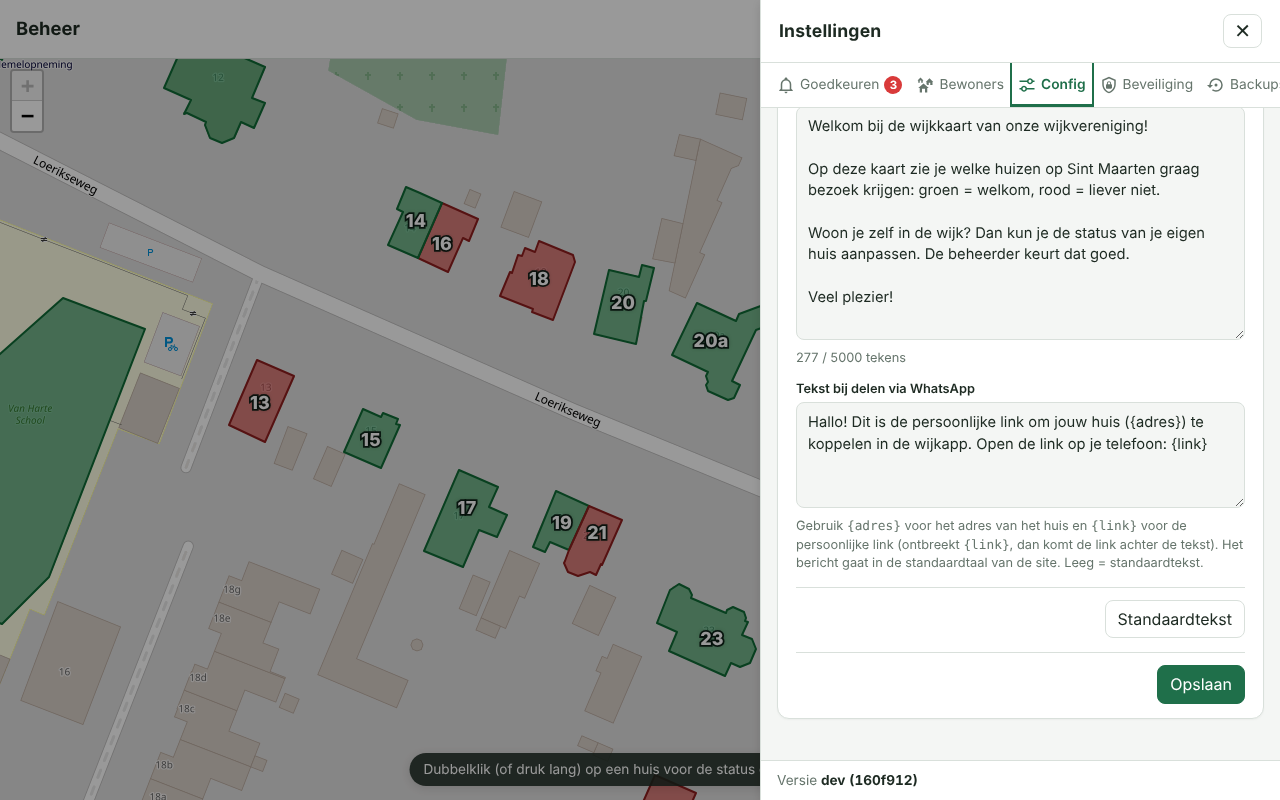
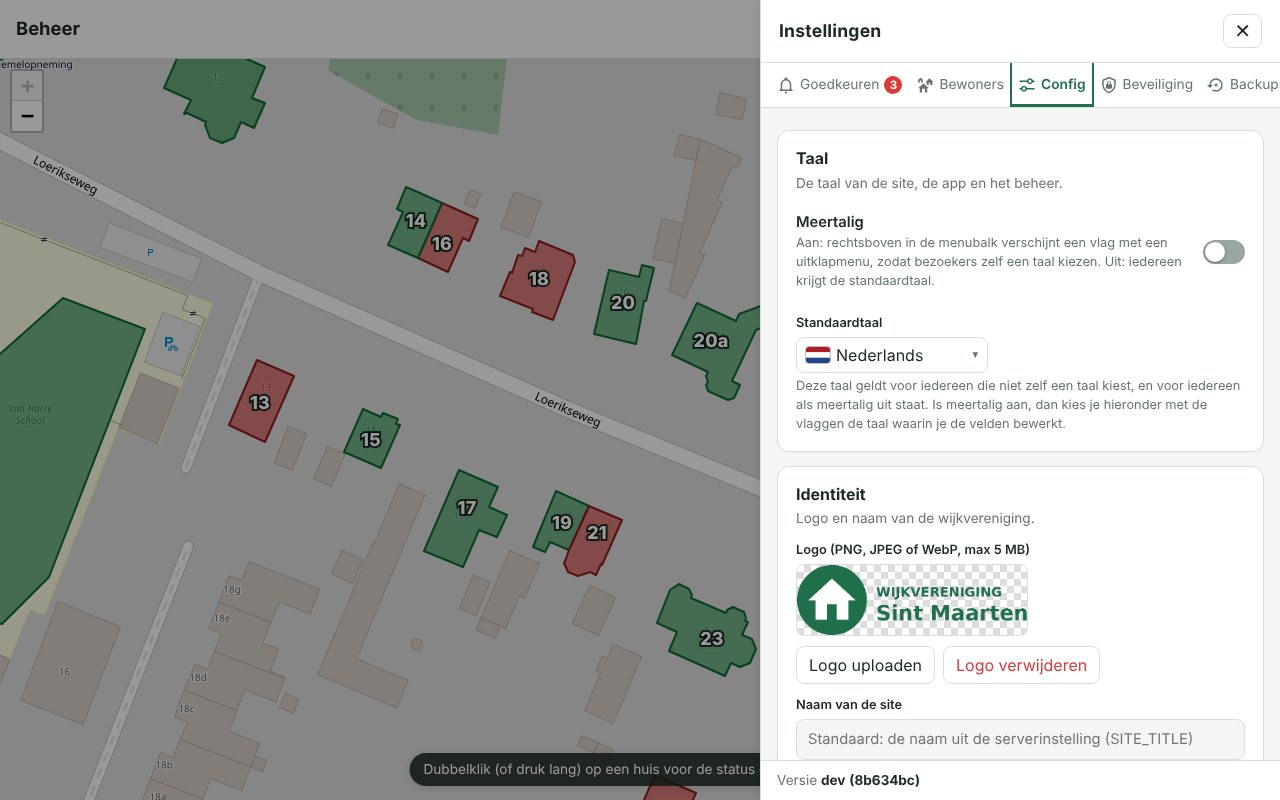
README nl/en: screenshots en beschrijving bijgewerkt (Config, talen, donker); screenshots-script (tussenstand)
Claude-Session: https://claude.ai/code/session_01RbVCVsqhcBjjeTGeb2Cmpu

diff --git a/tools/screenshots.js b/tools/screenshots.js
@@ -329,7 +329,7 @@ async function main() {
     });
     const files = await pdfPage(data, 'qr-pdf', 110);
     if (files) {
-      execFileSync('python3', ['-c', `from PIL import Image; im=Image.open(${JSON.stringify(files[0])}); w,h=im.size; im=im.crop((0,0,w,int(h*0.58))); im.save(${JSON.stringify(path.join(OUT, 'qr-pdf.png'))})`]);
+      execFileSync('python3', ['-c', `from PIL import Image; im=Image.open(${JSON.stringify(files[0])}); w,h=im.size; im=im.crop((0,0,w,int(h*0.5))); im.save(${JSON.stringify(path.join(OUT, 'qr-pdf.png'))})`]);
       console.log('  ✓ qr-pdf');
     }
   }

diff --git a/README.md b/README.md
@@ -55,7 +55,7 @@ Voorbeeld met willekeurige huizen (kaartgegevens © OpenStreetMap-bijdragers).
 
 **Publieke kaart** – met het logo van de vereniging; klik op een huis voor de notitie. Bovenaan staan de knoppen voor de uitleg, de straten en het menu *Meer* (⋯) met de PDF-knoppen.
 
-**Mobiel** – bovenaan alleen het logo, de titel en de schakelaar voor huisnummers; de acties (uitleg, straten, Meer) staan onderaan, met het statusbalkje (groen/rood) er altijd net boven.
+**Mobiel** – bovenaan alleen het logo, de titel, de schakelaars voor huisnummers en bewerken en (rechts) de taalkeuze en de donker/licht-knop; de acties (uitleg, straten, Meer) staan onderaan, met het statusbalkje (groen/rood) er altijd net boven.
 
 **Straten** – met het straat-icoon (🛣) in de menubalk zet je per straat de huizen op de kaart (en in de PDF) aan of uit. Per straat staat hoeveel huizen **groen** en **rood** zijn, en bovenaan het totaal van de zichtbare straten.
 
@@ -124,6 +124,10 @@ Wil je dat bewoners alleen hun **eigen huis** kunnen koppelen, dan zet je onder 
 - **Donker/licht** – naast de vlag staat een knop (maan/zon) waarmee elke bezoeker wisselt tussen de lichte en de donkere weergave. Standaard volgt de site de instelling van het apparaat; de keuze wordt onthouden. In de donkere weergave **keert het logo automatisch om** (zwart wordt wit) en wordt de kaart wat gedimd. De knop staat altijd in beeld, ook als meertalig uit staat.
 - **Vertalingen toevoegen** – de bron van alle teksten is Nederlands; een woordenboek per taal (`public/js/lang-en.js`, sleutel = Nederlandse tekst, waarde = vertaling; `{naam}` is een variabele) vertaalt de pagina in de browser en de pushmeldingen op de server. De tests (`npm test`) controleren dat elke vertaling dezelfde variabelen heeft.
 
+<table>
+<tr><td align="center" valign="top"><a href="docs/screenshots/instellingen-config-talen.png"><img src="docs/screenshots/instellingen-config-talen.png" width="400" alt="Config: taalbalk met vlaggen"></a><br><sub>Config: taalbalk met vlaggen</sub></td><td align="center" valign="top"><a href="docs/screenshots/publiek-engels-taalmenu.png"><img src="docs/screenshots/publiek-engels-taalmenu.png" width="400" alt="Engelse site met taalmenu"></a><br><sub>Engelse site met taalmenu</sub></td><td align="center" valign="top"><a href="docs/screenshots/mobiel-engels-donker.png"><img src="docs/screenshots/mobiel-engels-donker.png" width="150" alt="Mobiel: Engels en donker"></a><br><sub>Mobiel: Engels en donker</sub></td></tr>
+</table>
+
 ## Het beheer (`/beheer`)
 
 <table>
@@ -152,7 +156,7 @@ Het tandwiel (⚙) in de balk schuift het instellingen-menu in beeld. Het is ing
 
 <table>
 <tr><td align="center" valign="top"><a href="docs/screenshots/instellingen-goedkeuren.png"><img src="docs/screenshots/instellingen-goedkeuren.png" width="270" alt="Goedkeuren"></a><br><sub>Goedkeuren</sub></td><td align="center" valign="top"><a href="docs/screenshots/instellingen-bewoners.png"><img src="docs/screenshots/instellingen-bewoners.png" width="270" alt="Bewoners"></a><br><sub>Bewoners</sub></td><td align="center" valign="top"><a href="docs/screenshots/instellingen-bewoners-apparaten.png"><img src="docs/screenshots/instellingen-bewoners-apparaten.png" width="270" alt="Bewoners: apparaten en meldingen"></a><br><sub>Bewoners: apparaten en meldingen</sub></td></tr>
-<tr><td align="center" valign="top"><a href="docs/screenshots/instellingen-site.png"><img src="docs/screenshots/instellingen-site.png" width="270" alt="Config"></a><br><sub>Config</sub></td><td align="center" valign="top"><a href="docs/screenshots/instellingen-beveiliging.png"><img src="docs/screenshots/instellingen-beveiliging.png" width="270" alt="Beveiliging"></a><br><sub>Beveiliging</sub></td><td align="center" valign="top"><a href="docs/screenshots/instellingen-backups.png"><img src="docs/screenshots/instellingen-backups.png" width="270" alt="Backups"></a><br><sub>Backups</sub></td></tr>
+<tr><td align="center" valign="top"><a href="docs/screenshots/instellingen-config.png"><img src="docs/screenshots/instellingen-config.png" width="270" alt="Config"></a><br><sub>Config</sub></td><td align="center" valign="top"><a href="docs/screenshots/instellingen-beveiliging.png"><img src="docs/screenshots/instellingen-beveiliging.png" width="270" alt="Beveiliging"></a><br><sub>Beveiliging</sub></td><td align="center" valign="top"><a href="docs/screenshots/instellingen-backups.png"><img src="docs/screenshots/instellingen-backups.png" width="270" alt="Backups"></a><br><sub>Backups</sub></td></tr>
 </table>
 
 <p align="center"><a href="docs/screenshots/instellingen-mobiel.png"><img src="docs/screenshots/instellingen-mobiel.png" width="220" alt="Instellingen op een telefoon"></a><br><sub>Instellingen op een telefoon</sub></p>
@@ -291,6 +295,7 @@ npm install
 ORIGIN=http://localhost:9888 SETUP_TOKEN=lokaal-test-token-1 npm start
 npm test
 ```
+De screenshots in deze README maak je opnieuw met `node tools/screenshots.js` (Playwright + Chromium en internet voor de kaarttegels; de voorbeeldgegevens staan in `tools/screenshots/`, de gebouwen komen uit OpenStreetMap © OpenStreetMap-bijdragers). Met een of meer woorden erachter maak je alleen de screenshots met die naam, bijvoorbeeld `node tools/screenshots.js qr`.
 
 ## Beveiliging
 Passkeys via WebAuthn (SimpleWebAuthn), sessiecookie `HttpOnly`/`SameSite=Strict`/`Secure`, origin-check op wijzigingen,

diff --git a/README.en.md b/README.en.md
@@ -57,7 +57,7 @@ Example with random houses (map data © OpenStreetMap contributors).
 
 **Public map** – with the association's logo; click a house for its note. At the top are the buttons for the explanation, the streets and the *More* menu (⋯) with the PDF buttons.
 
-**Mobile** – at the top only the logo, the title and the switch for house numbers; the actions (info, streets, More) are at the bottom, with the status bar (green/red) always just above them.
+**Mobile** – at the top only the logo, the title, the switches for house numbers and edit and (on the right) the language choice and the dark/light button; the actions (info, streets, More) are at the bottom, with the status bar (green/red) always just above them.
 
 **Streets** – with the street icon (🛣) in the menu bar you switch the houses of each street on or off on the map (and in the PDF). Per street it shows how many houses are **green** and **red**, and at the top the total of the visible streets.
 
@@ -126,6 +126,10 @@ If you want residents to only be able to link **their own house**, switch on *Ch
 - **Dark/light** – next to the flag is a button (moon/sun) with which every visitor switches between the light and the dark display. By default the site follows the device's setting; the choice is remembered. In the dark display the **logo inverts automatically** (black becomes white) and the map is dimmed a little. The button is always visible, even when multilingual is off.
 - **Adding translations** – the source of all texts is Dutch; a dictionary per language (`public/js/lang-en.js`, key = Dutch text, value = translation; `{name}` is a variable) translates the page in the browser and the push notifications on the server. The tests (`npm test`) check that every translation has the same variables.
 
+<table>
+<tr><td align="center" valign="top"><a href="docs/screenshots/instellingen-config-talen.png"><img src="docs/screenshots/instellingen-config-talen.png" width="400" alt="Config: language bar with flags"></a><br><sub>Config: language bar with flags</sub></td><td align="center" valign="top"><a href="docs/screenshots/publiek-engels-taalmenu.png"><img src="docs/screenshots/publiek-engels-taalmenu.png" width="400" alt="English site with language menu"></a><br><sub>English site with language menu</sub></td><td align="center" valign="top"><a href="docs/screenshots/mobiel-engels-donker.png"><img src="docs/screenshots/mobiel-engels-donker.png" width="150" alt="Mobile: English and dark"></a><br><sub>Mobile: English and dark</sub></td></tr>
+</table>
+
 ## The admin area (`/beheer`)
 
 <table>
@@ -154,7 +158,7 @@ The cog (⚙) in the bar slides the settings menu into view. It is divided into 
 
 <table>
 <tr><td align="center" valign="top"><a href="docs/screenshots/instellingen-goedkeuren.png"><img src="docs/screenshots/instellingen-goedkeuren.png" width="270" alt="Approve"></a><br><sub>Approve</sub></td><td align="center" valign="top"><a href="docs/screenshots/instellingen-bewoners.png"><img src="docs/screenshots/instellingen-bewoners.png" width="270" alt="Residents"></a><br><sub>Residents</sub></td><td align="center" valign="top"><a href="docs/screenshots/instellingen-bewoners-apparaten.png"><img src="docs/screenshots/instellingen-bewoners-apparaten.png" width="270" alt="Residents: devices and notifications"></a><br><sub>Residents: devices and notifications</sub></td></tr>
-<tr><td align="center" valign="top"><a href="docs/screenshots/instellingen-site.png"><img src="docs/screenshots/instellingen-site.png" width="270" alt="Config"></a><br><sub>Config</sub></td><td align="center" valign="top"><a href="docs/screenshots/instellingen-beveiliging.png"><img src="docs/screenshots/instellingen-beveiliging.png" width="270" alt="Security"></a><br><sub>Security</sub></td><td align="center" valign="top"><a href="docs/screenshots/instellingen-backups.png"><img src="docs/screenshots/instellingen-backups.png" width="270" alt="Backups"></a><br><sub>Backups</sub></td></tr>
+<tr><td align="center" valign="top"><a href="docs/screenshots/instellingen-config.png"><img src="docs/screenshots/instellingen-config.png" width="270" alt="Config"></a><br><sub>Config</sub></td><td align="center" valign="top"><a href="docs/screenshots/instellingen-beveiliging.png"><img src="docs/screenshots/instellingen-beveiliging.png" width="270" alt="Security"></a><br><sub>Security</sub></td><td align="center" valign="top"><a href="docs/screenshots/instellingen-backups.png"><img src="docs/screenshots/instellingen-backups.png" width="270" alt="Backups"></a><br><sub>Backups</sub></td></tr>
 </table>
 
 <p align="center"><a href="docs/screenshots/instellingen-mobiel.png"><img src="docs/screenshots/instellingen-mobiel.png" width="220" alt="Settings on a phone"></a><br><sub>Settings on a phone</sub></p>
@@ -293,6 +297,7 @@ npm install
 ORIGIN=http://localhost:9888 SETUP_TOKEN=local-test-token-1 npm start
 npm test
 ```
+You regenerate the screenshots in this README with `node tools/screenshots.js` (Playwright + Chromium and internet for the map tiles; the example data is in `tools/screenshots/`, the buildings come from OpenStreetMap © OpenStreetMap contributors). With one or more words after it you only make the screenshots with that name, for example `node tools/screenshots.js qr`.
 
 ## Security
 Passkeys via WebAuthn (SimpleWebAuthn), session cookie `HttpOnly`/`SameSite=Strict`/`Secure`, origin check on changes,
